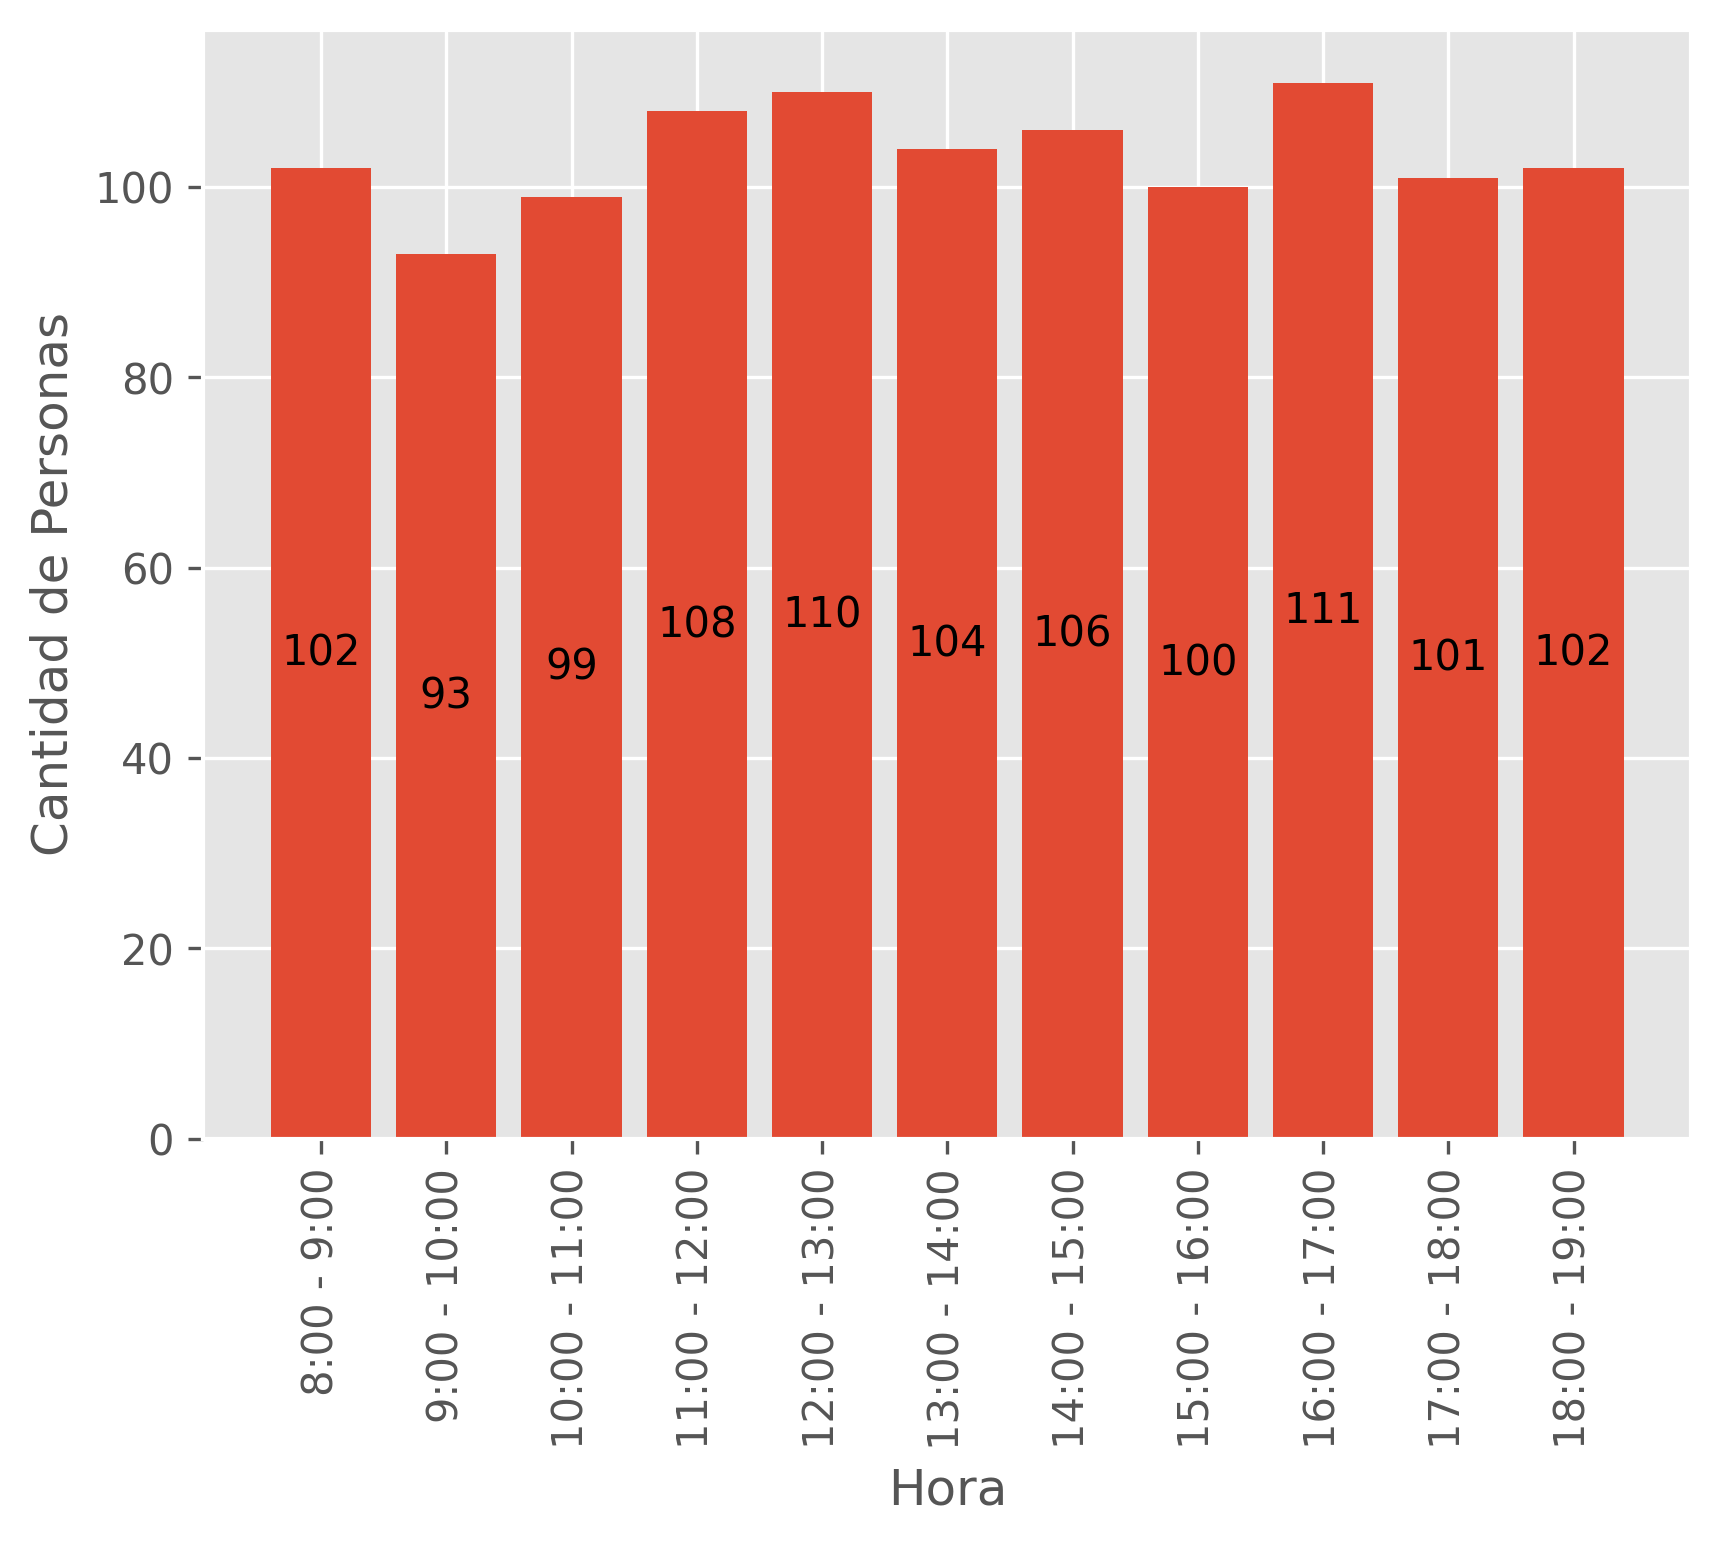
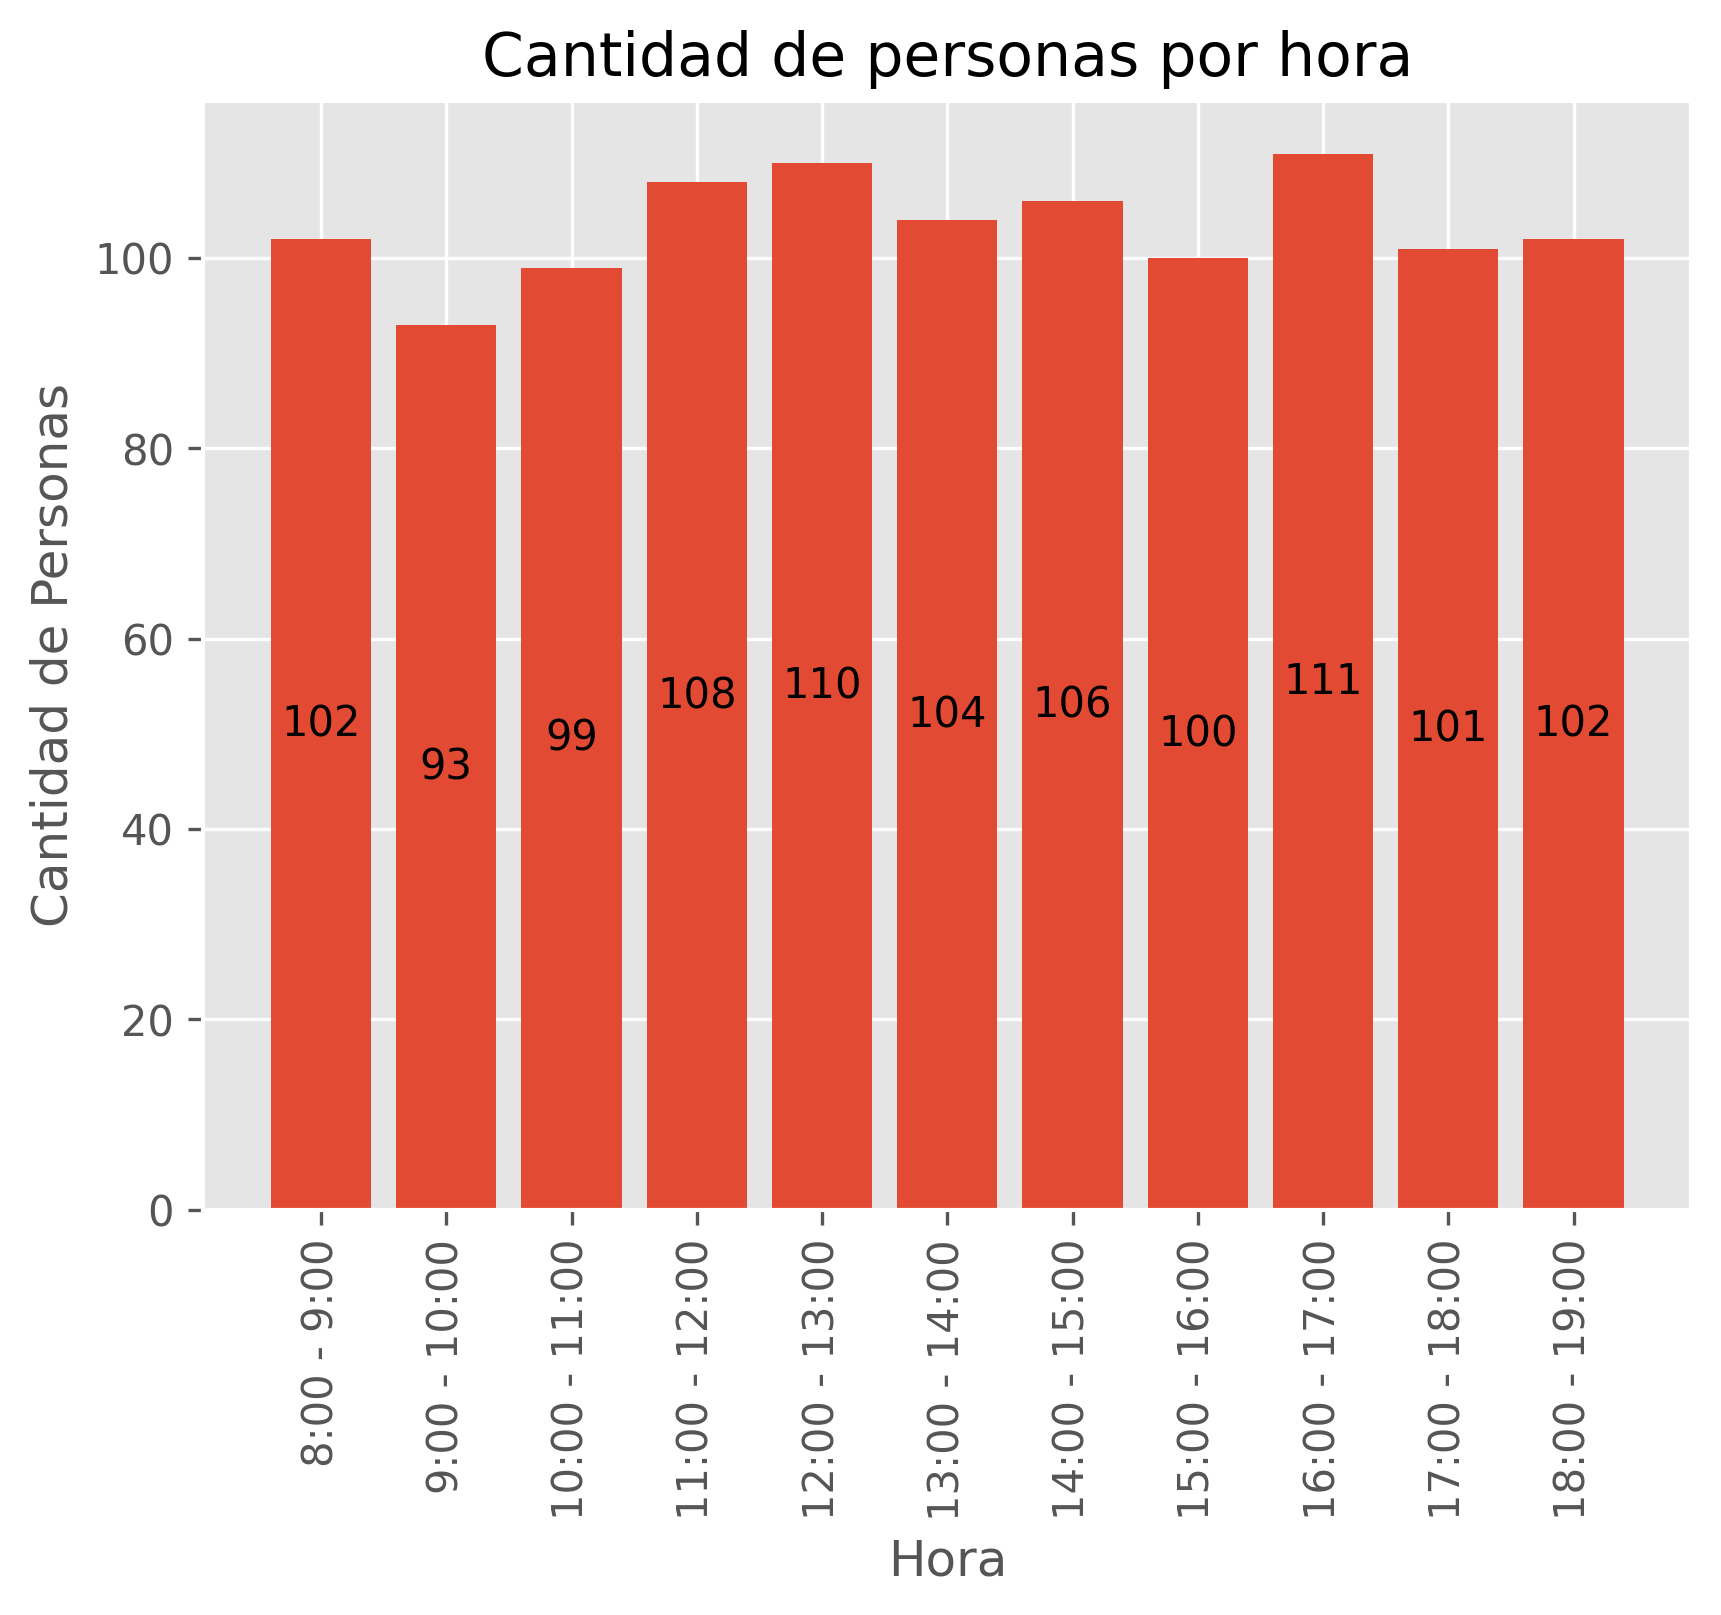
Agregados graficos faltantes

diff --git a/data_process.py b/data_process.py
@@ -73,30 +73,29 @@ def mean_time():
     for table in result:
         for record in table.records:
             date         = record.get_time()
-            time_measure = datetime.datetime(int(date.strftime("%Y")),int(date.strftime("%m")),int(date.strftime("%d")),int(date.strftime("%H")) + gen_data["utc_zone"],int(date.strftime("%M")),int(date.strftime("%S")))
             name_measure = record.values.get("Nombre")
             #Guarda el primer nombre y sus timestamp
             if name_measure != None:
-                print(f"Nombre: {name_measure}, Timestamp: {time_measure}, hora en int: {time_measure.strftime("%H:%M:%S")}")
+                print(f"Nombre: {name_measure}, Timestamp: {date}, Hora: {date.strftime("%H:%M:%S")}")
                 if len(person_list) == 0:
                     print("Agregado a lista de persona")
-                    person_data = [name_measure,time_measure.strftime("%H:%M:%S"),time_measure.strftime("%H:%M:%S")]
+                    person_data = [name_measure,date.strftime("%H:%M:%S"),date.strftime("%H:%M:%S")]
                     person_list.append(person_data)
                 else:
                     for i in range(0,len(person_list)):
                         #Agrega el nombre a la lista si no lo encuentra
                         if i == len(person_list)-1 and person_list[i][0] != name_measure:
                             print("Nombre no esta en la lista, Agregando...")
-                            person_data = [name_measure,time_measure.strftime("%H:%M:%S"),time_measure.strftime("%H:%M:%S")]
+                            person_data = [name_measure,date.strftime("%H:%M:%S"),date.strftime("%H:%M:%S")]
                             person_list.append(person_data)
                         #si encuentra el nombre compara el timestamp y verifica si es mayor o menor
-                        elif i != len(person_list)-1 and person_list[i][0] == name_measure:
-                            if person_list[i][1] > time_measure.strftime("%H:%M:%S"):
+                        elif i != len(person_list) and person_list[i][0] == name_measure:
+                            if person_list[i][1] > date.strftime("%H:%M:%S"):
                                 print("Menor tiempo")
-                                person_list[i][1] = time_measure.strftime("%H:%M:%S")
-                            if person_list[i][2] < time_measure.strftime("%H:%M:%S"):
+                                person_list[i][1] = date.strftime("%H:%M:%S")
+                            elif person_list[i][2] < date.strftime("%H:%M:%S"):
                                 print("Mayor tiempo")
-                                person_list[i][2] = time_measure.strftime("%H:%M:%S")
+                                person_list[i][2] = date.strftime("%H:%M:%S")
     
     if len(person_list) == 0:
         print("No hay data")
@@ -104,6 +103,7 @@ def mean_time():
 
     #Calcula el tiempo que se queda en el mall
     person_time_list = []
+    total_time_list = []
     for person in person_list:
         enter = person[1].split(":")
         for i in range (0,len(enter)):
@@ -127,17 +127,62 @@ def mean_time():
 
         if second / 10 < 1:
             if minute / 10 < 1:
-                print(f"Persona: {person[0]}, Entrada: {person[1]}, Salida: {person[2]}, Tiempo total: {hour}:0{minute}:0{second}")
+                total_hour= f"{hour}:0{minute}:0{second}"
             else:
-                print(f"Persona: {person[0]}, Entrada: {person[1]}, Salida: {person[2]}, Tiempo total: {hour}:{minute}:0{second}")
+                total_hour= f"{hour}:{minute}:0{second}"
         else:
             if minute / 10 < 1:
-                print(f"Persona: {person[0]}, Entrada: {person[1]}, Salida: {person[2]}, Tiempo total: {hour}:0{minute}:{second}")
+                total_hour= f"{hour}:0{minute}:{second}"
             else:
-                print(f"Persona: {person[0]}, Entrada: {person[1]}, Salida: {person[2]}, Tiempo total: {hour}:{minute}:{second}")
+                total_hour= f"{hour}:{minute}:{second}"
+                
+        #print(f"Persona: {person[0]}, Entrada: {person[1]}, Salida: {person[2]}, Tiempo total: {total_hour}")
+
+        if len(total_time_list) == 0:
+            temp = [total_hour,1]
+            total_time_list.append(temp)
+        else:
+            for i in range(0,len(total_time_list)):
+                if i == len(total_time_list) - 1 and total_time_list[i][0] != total_hour:
+                    temp = [total_hour,1]
+                    total_time_list.append(temp)
+                elif i != len(total_time_list) and total_time_list[i][0] == total_hour:
+                   total_time_list[i][1] += 1
+                   break
+
 
         person_time_list.append(minute + (hour *60))
 
+    total_time_list = sort_by_value(total_time_list)
+
+    x = []
+    y = []
+
+    for i in total_time_list:
+        x.append(i[0])
+        y.append(i[1])
+        print(i)
+
+    #genera el grafico
+    xpoint = np.array(x)
+    ypoint = np.array(y)
+
+    barplot = plt.bar(xpoint,ypoint)
+
+    plt.title("Tiempo de estadia")
+    plt.xlabel("Tiempo")
+    plt.ylabel("Cantidad")
+    plt.xticks(rotation=90)
+
+    plt.bar_label(barplot, labels=ypoint,label_type="center")
+
+    figure = plt.gcf()
+    figure.set_size_inches(19.20,10.80)
+    
+    plt.savefig("graph/tiempoEstadia.png", dpi = 300, bbox_inches="tight")
+    plt.close()
+
+    
     #Calcula el tiempo prometio que se quedan las personas
     add = 0
     for i in person_time_list:
@@ -200,6 +245,8 @@ def mall_sells():
     ypoint = np.array(y)
 
     barplot = plt.bar(xpoint,ypoint)
+
+    plt.title("Cantidad de ventas totales por tiendas")
     plt.xlabel("Tiendas")
     plt.ylabel("Cantidad de Ventas")
 
@@ -248,6 +295,8 @@ def sells_per_hour():
     ypoint = np.array(y)
 
     barplot = plt.bar(xpoint,ypoint)
+
+    plt.title("Cantidad de ventas por hora")
     plt.xlabel("Hora")
     plt.ylabel("Cantidad de Ventas")
     plt.xticks(rotation=90)
@@ -302,6 +351,7 @@ def people_per_hour():
 
     barplot = plt.bar(xpoint,ypoint)
 
+    plt.title("Cantidad de personas por hora")
     plt.xlabel("Hora")
     plt.ylabel("Cantidad de Personas")
     plt.xticks(rotation=90)
@@ -311,7 +361,7 @@ def people_per_hour():
     plt.savefig("graph/PersonasPorHora.png", dpi = 300, bbox_inches="tight")
     plt.close()
 
-def Sales_per_shop_per_hour():
+def sales_per_shop_per_hour():
     query = f'from(bucket: "{bucket}")\
     |> range(start: {date_query_start.strftime("%Y-%m-%dT%H:%M:%SZ")}, stop: {date_query_stop.strftime("%Y-%m-%dT%H:%M:%SZ")})\
     |> filter(fn: (r) => r._measurement == "Compras")\
@@ -347,9 +397,15 @@ def Sales_per_shop_per_hour():
                             i[num_floor][j][1] += 1
                             break
                     break
-                
+    
+    x_total = []            #Guarda la hora
+    y_total = []            #Guarda las ventas totales por hora
     for i in hour_list:
+        x_shop  = []            #Guarda el nombre de las tiendas
+        y_shop  = []            #Guarda las ventas de la hora por tienda
+        
         add_per_hour = 0
+
         print(f"Hora: {i[0]}:00\n")
         for j in range(1,len(i)):
             for k in gen_data["edificio"]:
@@ -358,10 +414,48 @@ def Sales_per_shop_per_hour():
                     break
             for k in range(1,len(i[j])):
                 print(f"Tienda {i[j][k][0]} hizo {i[j][k][1]} ventas",end = " | ")
+                x_shop.append(i[j][k][0])
+                y_shop.append(i[j][k][1])
                 add_per_hour += i[j][k][1]
             print()
         print(f"Ventas de la hora: {add_per_hour}")
+        x_total.append(f"{i[0]}:00")
+        y_total.append(add_per_hour)
+
+        #Grafico de tiendas por hora
+
+        xpoint = np.array(x_shop)
+        ypoint = np.array(y_shop)
+
+        barplot = plt.bar(xpoint,ypoint)
+
+        plt.title(f"{i[0]}:00 a {i[0] + 1}:00")
+        plt.xlabel("Tienda")
+        plt.ylabel("Cantidad de Ventas")
+
+        plt.bar_label(barplot, labels=ypoint,label_type="center")
+
+        plt.savefig(f"graph/ventasPTPH/{i[0]}_ventas.png", dpi = 300, bbox_inches="tight")
+        plt.close()
+
+
         separation()
+
+    #Grafico de total de ventas por hora 
+    xpoint = np.array(x_total)
+    ypoint = np.array(y_total)
+
+    barplot = plt.bar(xpoint,ypoint)
+
+    plt.title(f"Ventas del dia")
+    plt.xlabel("Hora")
+    plt.ylabel("Cantidad de Ventas")
+    plt.xticks(rotation=90)
+
+    plt.bar_label(barplot, labels=ypoint,label_type="center")
+
+    plt.savefig(f"graph/ventasPTPH/total_ventas.png", dpi = 300, bbox_inches="tight")
+    plt.close()
 
     print(f"\nSe realizaron {add} ventas en total")
 
@@ -411,14 +505,42 @@ def people_per_store_per_minute():
 
     for i in hour_list:
         add_per_hour = 0
+        x = []
+        y = []
         for j in range(1,len(i)):
+            add_per_minute = 0
             if i[j][0] < 10:
                 print(f"{i[0]}:0{i[j][0]}",end = ": ")
+                x.append(f"{i[0]}:0{i[j][0]}")
             else:
                 print(f"{i[0]}:{i[j][0]}",end = ": ")
+                x.append(f"{i[0]}:{i[j][0]}")
             print(i[j][1])
             for k in i[j][1]:
                 add_per_hour += k[1]
+                add_per_minute += k[1]
+            y.append(add_per_minute)
+        
+        #Crea el grafico
+
+        xpoint = np.array(x)
+        ypoint = np.array(y)
+
+        barplot = plt.bar(xpoint,ypoint)
+
+        plt.title(f"Personas por minuto de {i[0]}:00 a {i[0] + 1}:00")
+        plt.xlabel("Hora")
+        plt.ylabel("Cantidad de Personas")
+        plt.xticks(rotation=90)
+
+        plt.bar_label(barplot, labels=ypoint,label_type="center")
+
+        figure = plt.gcf()
+        figure.set_size_inches(19.20,10.80)
+        plt.savefig(f"graph/personasPM/{i[0]}_ventas.png", dpi = 300, bbox_inches="tight")
+        plt.close()
+
+
         print(f"\nPersonas por hora: {add_per_hour}")
         separation()
 
@@ -498,17 +620,17 @@ def main():
                 case _:
                     separation()
                     print("ERROR! No es una opcion")
-                    separation()
+                    separation()s
         except:
             separation()
             print("ERROR! Ingrese un numero")
             separation()'''
     
-    #mean_time()
-    mall_sells()
-    sells_per_hour()
+    mean_time()
+    #mall_sells()
+    #sells_per_hour()
     #people_per_store_per_minute()
-    people_per_hour()
+    #people_per_hour()
     #sales_per_shop_per_hour()
     
 
